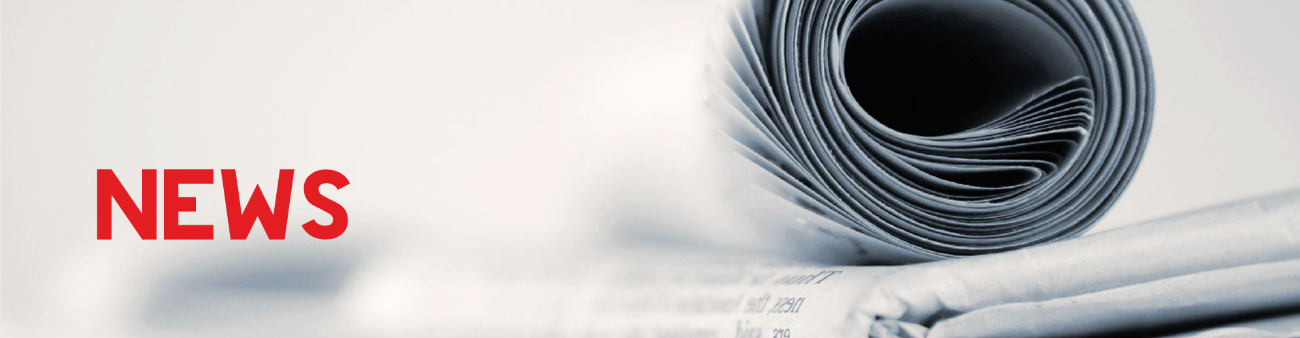
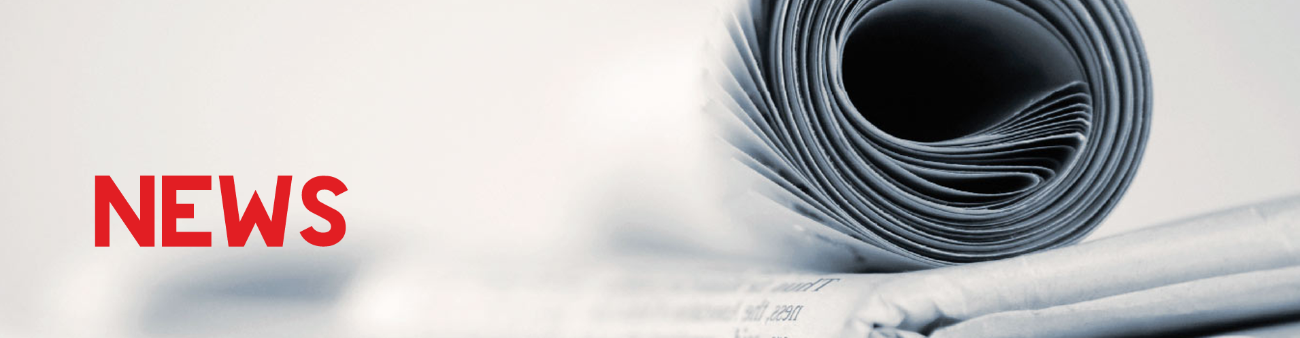
mobile

diff --git a/views/content/pet.html b/views/content/pet.html
@@ -1,7 +1,7 @@
 <div class="pet">
   <div class="banner">
       <img src="img/PET/pet.png" alt="" class="img-responsive">
-      <img src="img/banner-ribbon.png" alt="" class="img-responsive banner-rib">
+      <img src="img/banner-ribbon.png" alt="" class="img-responsive banner-rib hidden-xs">
       </div>
       <div class="red-sec">
         <div class="container">
@@ -29,7 +29,7 @@
         </div>
 </div>
         <div class="petslider">
-            <img src="img/black-ribbon.png" alt="" class="img-responsive test-banner">
+            <img src="img/black-ribbon.png" alt="" class="img-responsive test-banner hidden-xs">
             <div class="container">
             <div class="gallery-holder pd-41">
               <h2 class="text-center text-up font-revelution text-head color-red">GALLERY</h2>
@@ -84,10 +84,10 @@
 </div>
 
         <div class="testimonial-sec">
-            <img src="img/black-ribbon1.png" alt="" class="img-responsive test-banner">
+            <img src="img/black-ribbon1.png" alt="" class="img-responsive test-banner hidden-xs">
                   <div class="container">
     <div class="profile-desc">
-            <img src="img/comma.png" alt="" class="img-responsive test-comma">
+            <img src="img/comma.png" alt="" class="img-responsive test-comma hidden-xs">
           <h2 class="text-center text-up font-revelution text-head color-red">TESTIMONIALS</h2>
                   <flex-slider flex-slide="item in flexprofile track by $index" animation="slide" item-margin="0" animationloop="true">
                     <li>
@@ -141,7 +141,7 @@
             </div>
           </div>
           <div class="row">
-            <div class="col-md-4 col-md-offset-2">
+            <div class="col-md-4 col-md-offset-2 col-xs-12 col-pd">
           <div class="form-group">
             <div class="radio rad-sec">
     <label class="pull-left"><input type="radio" name="optradio" class="">PP/PE Liners</label>
@@ -149,7 +149,7 @@
         </div>
          </div>
             </div>
-            <div class="col-md-4">
+            <div class="col-md-4 col-xs-12 col-pd">
           <div class="form-group">
             <div class="radio rad-sec">
     <label class="pull-left"><input type="radio" name="optradio" class="">PET Bottles</label>

diff --git a/sass/_mobile.scss b/sass/_mobile.scss
@@ -1,5 +1,63 @@
-@media (max-width: $screen-xs-max) {}
+@media (max-width: $screen-xs-max) {
+  .about-us{
+    .black-sec {
+      margin: 0;
+  }
+.pdt-40 {
+    padding: 0 0 10px;
+}
+.abt-img1{
+  padding-bottom: 15px;
+}
+  .vis-mis{
+    margin: 20px;
+    padding: 0;
+    p{
+      text-align: justify;
+    }
+  }
+  }
+  .events{
+    .content-sec p{
+      text-align: justify;
+    }
+   .event-info .text-sec {
+    padding: 30px 30px;
+  }
+}
+}
+.news{
+  .content-sec{
+    padding-top: 10px;
+    .category{
+          padding-bottom: 15px;
+    }
+     .category-selection{
+       padding-bottom: 0;
+      .selectpicker{
+            vertical-align: -webkit-baseline-middle;
+            font-size: 11px;
+  padding: 3px 42px 0 12px;
+          }
+   }
+  }
+  .news-sec:last-child{
+    padding-bottom: 10px;
+  }
+}
+.testimonial-sec .pd100{
+  padding: 10px;
+}
+.col-pd{
+  padding-right: 10px;
+  padding-left: 10px;
+}
+.enquiry-form{
+  .form-group:last-child{
+    margin-top: 15px;
+  }
 
+}
 @media (max-width: $screen-sm-max) {}
 
 @media (max-width: $screen-md-max) {}

diff --git a/views/content/aboutus.html b/views/content/aboutus.html
@@ -1,7 +1,7 @@
 <div class="about-us">
   <div class="banner">
   <img src="img/about/aboutus.png" alt="" class="img-responsive">
-  <img src="img/banner-ribbon.png" alt="" class="img-responsive banner-rib">
+  <img src="img/banner-ribbon.png" alt="" class="img-responsive banner-rib hidden-xs">
   </div>
   <div class="container">
   <div class="content-sec">
@@ -27,11 +27,11 @@
   </div>
   </div>
 <div class="black-holder">
-  <img src="img/black-ribbon.png" alt="" class="img-responsive black-rib">
+  <img src="img/black-ribbon.png" alt="" class="img-responsive black-rib hidden-xs">
   <div class="black-sec">
     <div class="container-fluid">
       <div class="vis-mis">
-    <img src="img/comma1.png" alt="" class="img-responsive black-comma">
+    <img src="img/comma1.png" alt="" class="img-responsive black-comma hidden-xs">
       <h2 class="vis-head text-up font-revelution text-head">VISION - MISSION</h2>
       <p>
         Our vision is to build a place where people can discover innovative packaging solution which exceeds expectations of all stakeholders.

diff --git a/views/content/events.html b/views/content/events.html
@@ -1,10 +1,8 @@
   <div class="events">
     <div class="banner">
     <img src="img/events/events.png" alt="" class="img-responsive">
-    <!-- <div class="banner-text">
-      <h2>EVENTS</h2>
-    </div> -->
-  <img src="img/banner-ribbon.png" alt="" class="img-responsive banner-rib">
+
+  <img src="img/banner-ribbon.png" alt="" class="img-responsive banner-rib hidden-xs">
     </div>
     <div class="container">
     <div class="content-sec">

diff --git a/views/content/careers.html b/views/content/careers.html
@@ -1,7 +1,7 @@
 <div class="careers">
   <div class="banner">
   <img src="img/careers/careers.png" alt="" class="img-responsive">
-  <img src="img/banner-ribbon.png" alt="" class="img-responsive banner-rib">
+  <img src="img/banner-ribbon.png" alt="" class="img-responsive banner-rib hidden-xs">
   </div>
   <div class="red-sec">
     <div class="container">

diff --git a/views/content/pof.html b/views/content/pof.html
@@ -260,7 +260,7 @@
   <div class="also-sec">
   <h3 class=text-center>Also View</h3>
   <div class="special-films">
-  <img src="" alt="" class="img-responsive">
+  <img src="img/pof/view1.png" alt="" class="img-responsive">
   <h3>Speciality Films</h3>
   </div>
   <div class="bags-liners">

diff --git a/views/content/news.html b/views/content/news.html
@@ -1,6 +1,6 @@
 <section>
   <div class="banner">
-    <img src="img/news.jpg" alt="" class="img-resposive width100">
+    <img src="img/news/news.png" alt="" class="img-resposive width100">
   </div>
 </section>
 <div class="news">

diff --git a/sass/_rishub.scss b/sass/_rishub.scss
@@ -21,7 +21,8 @@
 margin-bottom: -500px;
 // background-size: cover;
   .text-sec{
-      padding: 50px 30px;
+      // padding: 50px 30px;
+          padding: 72px 30px;
     }
     h3{
       margin-top: 0;
